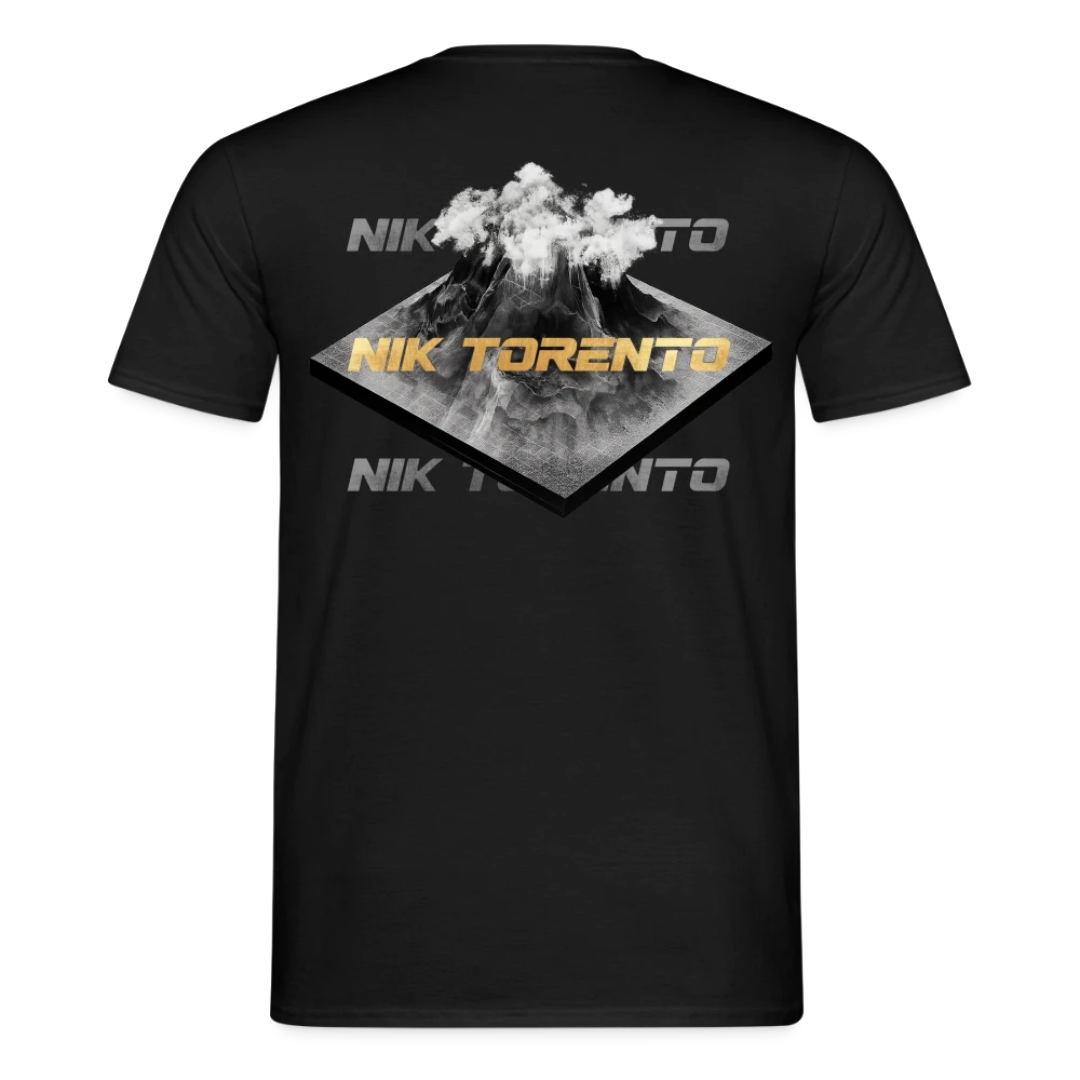
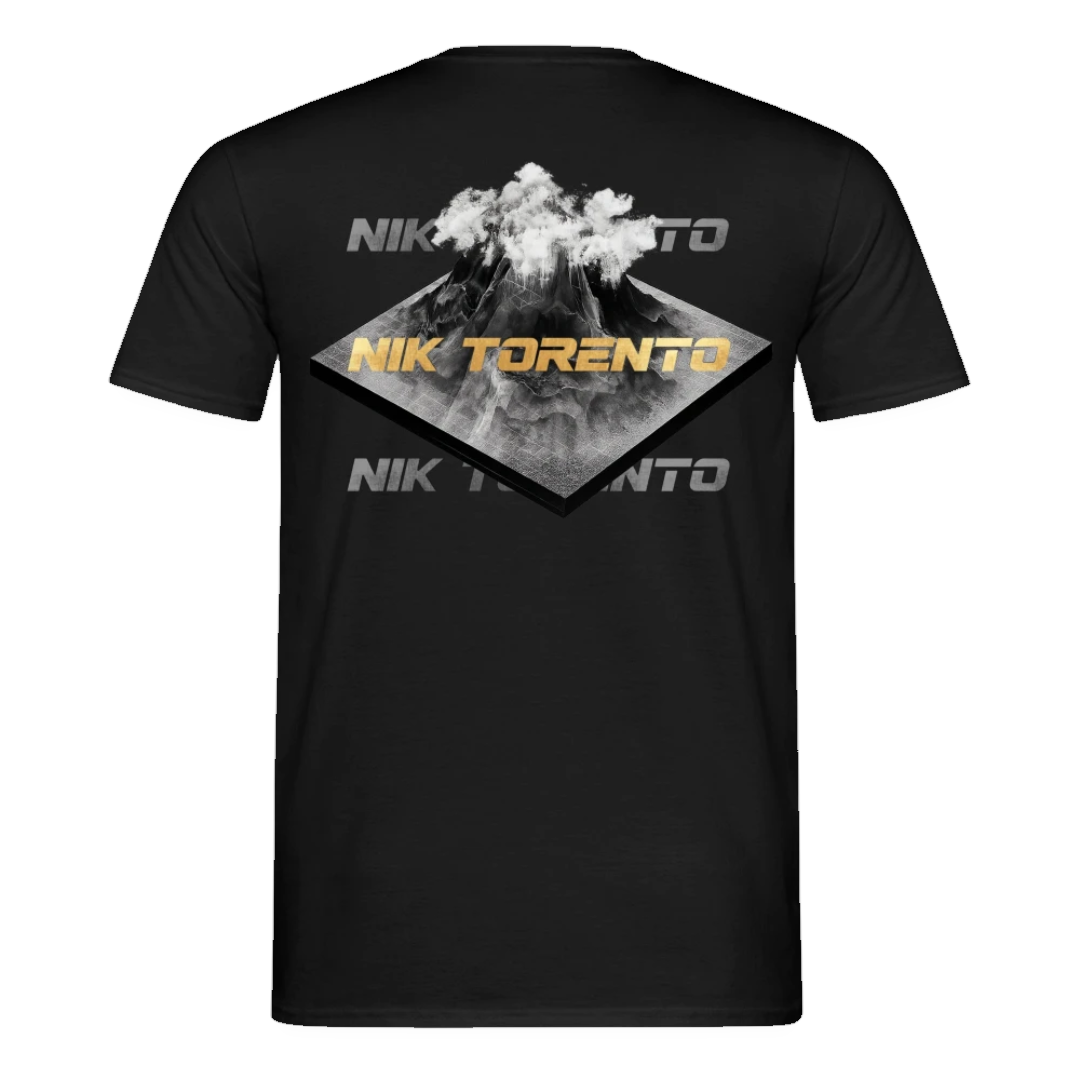
Merch: Freistellung verbessert (Erode-Pass), Frontshirt gerade + mehr überlappend, Goldrahmen nur an Card

Changed region(s): [[0.7333, 0.3361, 0.7639, 0.3972], [0.2444, 0.3361, 0.275, 0.3667]]

diff --git a/index.html b/index.html
@@ -165,8 +165,8 @@ h2{font-family:'Bebas Neue',sans-serif;font-size:clamp(40px,6vw,76px);letter-spa
 .mix-info h3{font-family:'Bebas Neue',sans-serif;font-size:20px;letter-spacing:2px;color:var(--white)}
 .mix-info span{font-size:10px;letter-spacing:3px;text-transform:uppercase;background:var(--gold-text);-webkit-background-clip:text;-webkit-text-fill-color:transparent;background-clip:text}
 .merch-shirt-wrap{position:absolute;inset:0;display:flex;align-items:center;justify-content:center}
-.merch-shirt-back{width:62%;position:absolute;left:5%;top:50%;transform:translateY(-52%);filter:drop-shadow(0 6px 20px rgba(0,0,0,.9))}
-.merch-shirt-front{width:44%;position:absolute;right:4%;bottom:10%;transform:rotate(-7deg);border:1.5px solid #E4B824;box-shadow:0 0 18px rgba(228,184,36,.4),0 6px 24px rgba(0,0,0,.7);filter:drop-shadow(0 4px 12px rgba(0,0,0,.8))}
+.merch-shirt-back{width:72%;position:absolute;left:0%;top:50%;transform:translateY(-50%);filter:drop-shadow(0 8px 28px rgba(0,0,0,.95))}
+.merch-shirt-front{width:52%;position:absolute;right:0%;top:50%;transform:translateY(-50%);filter:drop-shadow(0 6px 24px rgba(0,0,0,.95)) drop-shadow(0 0 16px rgba(228,184,36,.12))}
 
 /* NEWS */
 #news{background:linear-gradient(rgba(6,6,6,0.80),rgba(6,6,6,0.80)),url('images/news-bg.jpg') center/cover no-repeat}
